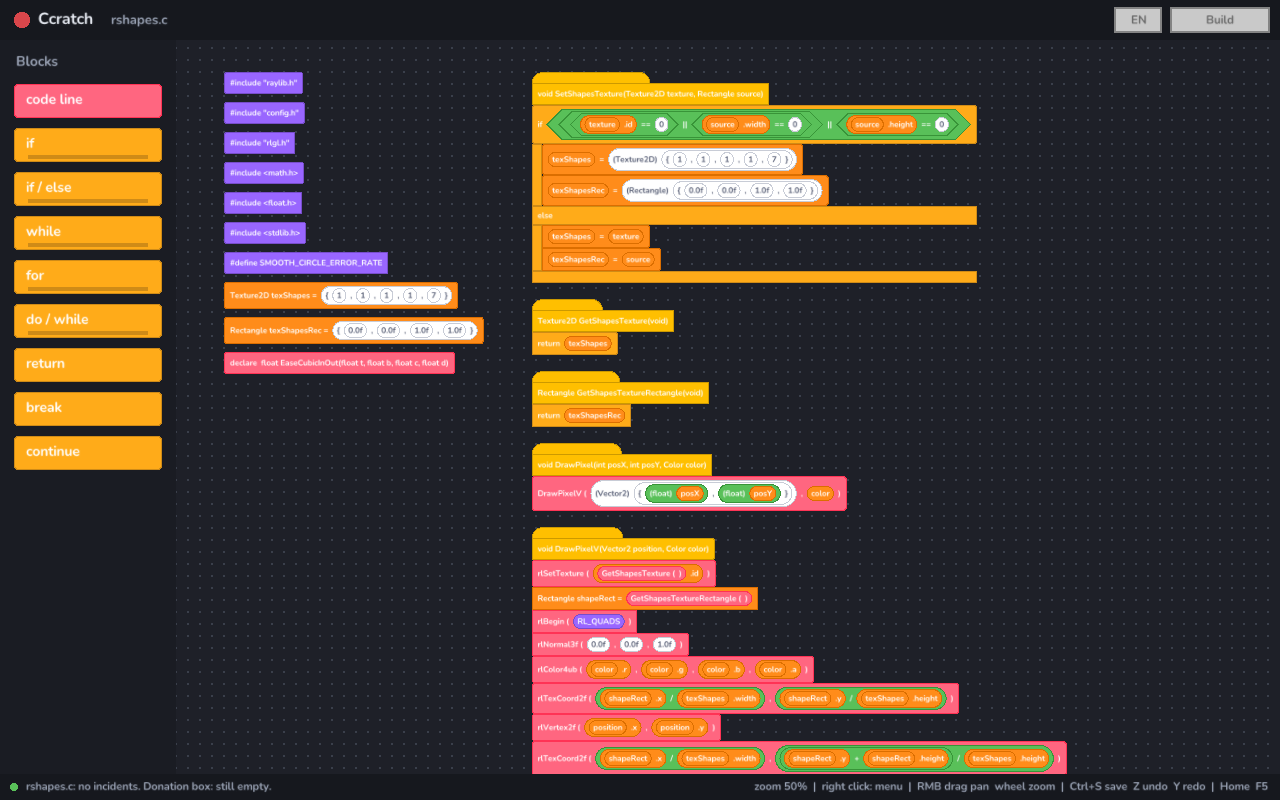
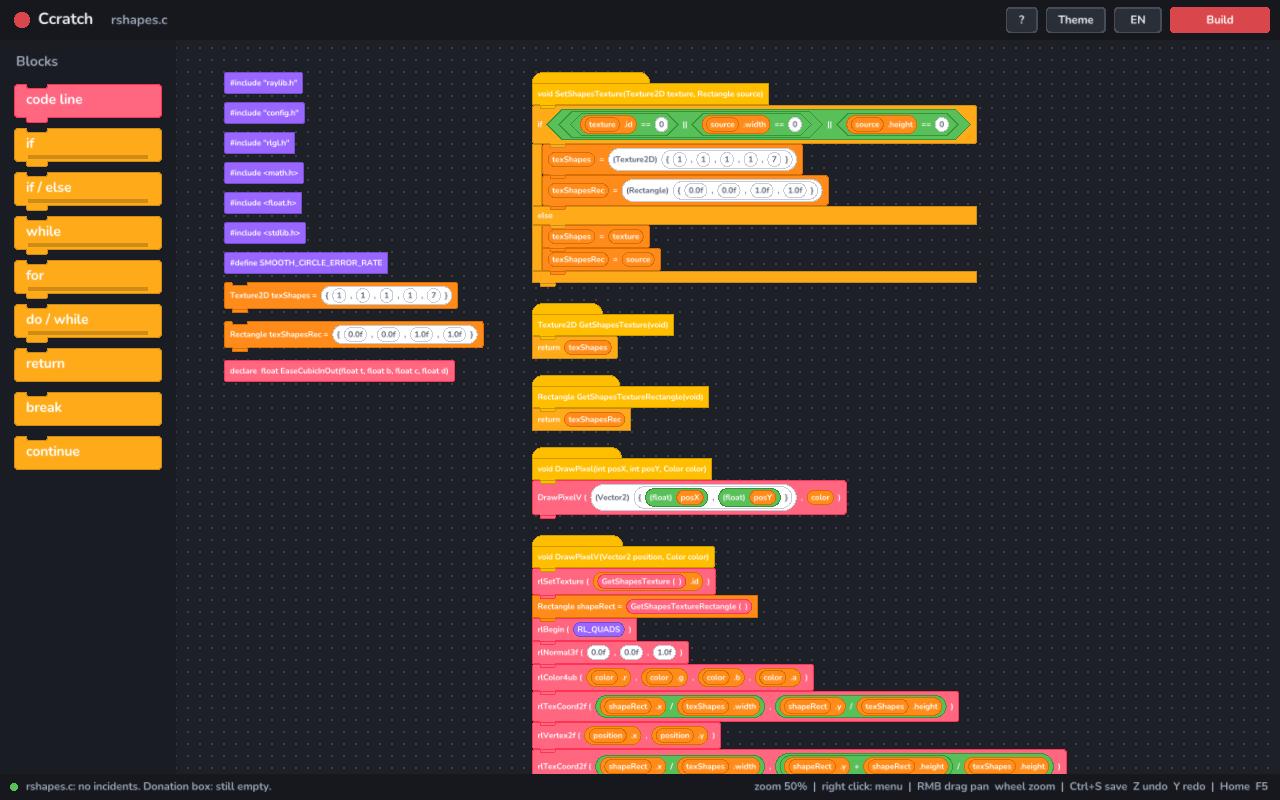
Puzzle shapes: notches on top, tabs underneath
Every statement gets a notch on top (a dent in the canvas colour) and a
tab under it in its own colours; tabs are drawn last, over the notch of
the block below, so stacked blocks lock together like Scratch's. C-blocks
put a tab into each mouth, a function hat into its first statement, a
label line into its statement. return, break, continue and goto have
flat bottoms, like Scratch's stop blocks: nothing after them runs. The
palette blocks have the same shapes.

Also: the display check keeps GLFW initialised instead of closing it
again, so raylib reuses the connection; with a slow Xvfb the display
could vanish in between and raylib 5.5 then segfaults (the occasional
GUI test failure).

Claude-Session: https://claude.ai/code/session_01AMzXJ5FkDabNV7M596GN8d

diff --git a/ccratch/src/ccr_blocks.c b/ccratch/src/ccr_blocks.c
@@ -20,6 +20,9 @@
 #define MOUTH_MIN_H 24.0f
 #define FOOT_H      24.0f   /* bottom bar of a C-block */
 #define HAT_BUMP    22.0f
+#define TAB_X       16.0f   /* the puzzle tab: how far in from the left */
+#define TAB_W       32.0f
+#define TAB_H        8.0f
 
 typedef enum category {
     CAT_CONTROL, CAT_OPERATOR, CAT_VARIABLE, CAT_CALL, CAT_EVENT,
@@ -40,12 +43,15 @@ typedef struct layout {
     float         *ew, *eh;   /* cached expression sizes, per node */
     bool           oom;
     int            dim;       /* > 0 inside a commented-out statement */
+    ccr_prim      *tabs;      /* puzzle tabs, drawn over everything at the end */
+    uint32_t       tab_count, tab_cap;
 } layout;
 
 static void push_snap(layout *L, ccr_snap_kind kind, ccr_node_id ref, float x, float y, float w,
                       float h);
 
 static void push_jump(layout *L, ccr_node_id id);
+static void add_tab(layout *L, float x, float bottom, ccr_color fill, ccr_color edge, ccr_node_id node);
 
 static const ccr_node *N(const layout *L, ccr_node_id id) { return &L->ast->nodes[id]; }
 static const char *S(const layout *L, ccr_str s)         { return ccr_ast_str(L->ast, s); }
@@ -502,12 +508,15 @@ static size2 emit_c_block(layout *L, const items *head, const mouth *mouths, int
     if (hh < BLOCK_MIN_H) hh = BLOCK_MIN_H;
     float width = hw < 120.0f ? 120.0f : hw;
 
+    const uint32_t head_prim = L->out->prim_count;
     push_shape(L, SHAPE_BLOCK, cat, (ccr_rect){ x, y, width, hh }, owner);
     emit_items(L, head, x + BLOCK_PAD_X, y, hh, cat, owner);
+    const ccr_color tab_fill = L->out->prims[head_prim].fill, tab_edge = L->out->prims[head_prim].edge;
 
     float cy = y + hh;
     for (int m = 0; m < mouth_count; ++m) {
         float inner_w = 0.0f;
+        add_tab(L, x + ARM_W, cy, tab_fill, tab_edge, owner);   /* into the mouth */
         float inner_h = emit_body(L, mouths[m].body, x + ARM_W, cy, &inner_w);
         if (inner_h < MOUTH_MIN_H)
             inner_h = MOUTH_MIN_H;
@@ -593,12 +602,65 @@ static size2 emit_decl_block(layout *L, ccr_node_id id, float x, float y, float 
 static float emit_stmt_body(layout *L, ccr_node_id id, float x, float y, float *max_w);
 
 /* A statement; a commented-out one, and everything in it, drawn grey. */
+/* ---------------------------------------------------- puzzle shapes */
+
+/*
+ * Scratch's stack blocks fit together like a puzzle: a tab under each
+ * block, a notch on top of the next one. Here a notch is a dent drawn in
+ * the canvas colour, and the tab of the block above is drawn over it at
+ * the end, so the two lock. Where nothing is above, the dent stays empty;
+ * blocks after which nothing runs (return, break, continue, goto) have no
+ * tab, like Scratch's "stop" blocks: their flat bottom says it.
+ */
+static void add_tab(layout *L, float x, float bottom, ccr_color fill, ccr_color edge, ccr_node_id node)
+{
+    if (!grow((void **)&L->tabs, &L->tab_cap, L->tab_count + 2, sizeof(ccr_prim))) {
+        L->oom = true;
+        return;
+    }
+    /* the tab, and its top edge painted over so it grows out of the block */
+    L->tabs[L->tab_count++] = (ccr_prim){ .kind = CCR_PRIM_BLOCK, .node = node,
+        .rect = { x + TAB_X, bottom - 1.0f, TAB_W, TAB_H + 1.0f },
+        .fill = fill, .edge = edge, .roundness = 0.6f };
+    L->tabs[L->tab_count++] = (ccr_prim){ .kind = CCR_PRIM_BLOCK, .node = node,
+        .rect = { x + TAB_X + 1.5f, bottom - 2.5f, TAB_W - 3.0f, 3.0f },
+        .fill = fill, .edge = fill, .roundness = 0.0f };
+}
+
+static void add_dent(layout *L, float x, float top, ccr_color edge, ccr_node_id node)
+{
+    const ccr_color bg = ccr_th(CCR_C_BG);
+    push_prim(L, (ccr_prim){ .kind = CCR_PRIM_BLOCK, .node = node,
+        .rect = { x + TAB_X, top - 1.0f, TAB_W, TAB_H + 1.0f },
+        .fill = bg, .edge = edge, .roundness = 0.6f });
+    push_prim(L, (ccr_prim){ .kind = CCR_PRIM_BLOCK, .node = node,
+        .rect = { x + TAB_X + 1.0f, top - 2.5f, TAB_W - 2.0f, 3.5f },
+        .fill = bg, .edge = bg, .roundness = 0.0f });
+}
+
+static bool ends_flow(ccr_node_kind k)
+{
+    return k == CCR_NODE_RETURN || k == CCR_NODE_BREAK || k == CCR_NODE_CONTINUE ||
+           k == CCR_NODE_GOTO;
+}
+
 static float emit_stmt(layout *L, ccr_node_id id, float x, float y, float *max_w)
 {
     const bool off = (N(L, id)->flags & CCR_FLAG_COMMENTED) != 0;
+    const uint32_t first = L->out->prim_count;
     L->dim += off;
     float h = emit_stmt_body(L, id, x, y, max_w);
     L->dim -= off;
+
+    /* a block of its own (not a group of others): notch on top, tab under */
+    if (!L->oom && first < L->out->prim_count) {
+        const ccr_prim top = L->out->prims[first];
+        if (top.node == id && top.kind == CCR_PRIM_BLOCK && top.rect.x == x && top.rect.y == y) {
+            add_dent(L, x, y, top.edge, id);
+            if (!ends_flow(N(L, id)->kind) && N(L, id)->kind != CCR_NODE_LABEL)
+                add_tab(L, x, y + h, top.fill, top.edge, id);
+        }
+    }
     return h;
 }
 
@@ -688,7 +750,10 @@ static float emit_stmt_body(layout *L, ccr_node_id id, float x, float y, float *
         /* `done:` then the labelled statement right under it */
         push_jump(L, id);
         it_fmt(&head, "%s:", S(L, n->name));
+        const uint32_t line = L->out->prim_count;
         sz = emit_line_block(L, &head, CAT_CONTROL, x, y, id);
+        if (n->first_child != CCR_NONE && line < L->out->prim_count)
+            add_tab(L, x, y + sz.h, L->out->prims[line].fill, L->out->prims[line].edge, id);
         if (sz.w > *max_w) *max_w = sz.w;
         float h2 = 0.0f;
         if (n->first_child != CCR_NONE)
@@ -821,7 +886,9 @@ static size2 emit_hat(layout *L, ccr_node_id fn, float x, float y, float *max_w)
 
     /* the round "hat" bump, then the body of the block over it */
     push_shape(L, SHAPE_PILL, CAT_EVENT, (ccr_rect){ x, y, w * 0.5f, HAT_BUMP * 2.0f }, fn);
+    const uint32_t hat_prim = L->out->prim_count;
     push_shape(L, SHAPE_BLOCK, CAT_EVENT, (ccr_rect){ x, y + HAT_BUMP, w, h }, fn);
+    add_tab(L, x, y + HAT_BUMP + h, L->out->prims[hat_prim].fill, L->out->prims[hat_prim].edge, fn);
     emit_items(L, &head, x + BLOCK_PAD_X, y + HAT_BUMP, h, CAT_EVENT, fn);
     if (w > *max_w) *max_w = w;
 
@@ -986,6 +1053,9 @@ bool ccr_blocks_build_script(ccr_blocks *out, const ccr_ast *ast, ccr_node_id ro
     else
         emit_decl_block(&L, root, 0.0f, 0.0f, &w);
 
+    for (uint32_t i = 0; i < L.tab_count && !L.oom; ++i)
+        push_prim(&L, L.tabs[i]);
+    free(L.tabs);
     if (L.oom) {
         ccr_blocks_free(out);
         return false;

diff --git a/ccratch/src/ccr_app.c b/ccratch/src/ccr_app.c
@@ -830,6 +830,16 @@ static void draw_palette(int height, bool dragging_over)
         ccr_color edge = ccr_th_cat(cat, CCR_EDGE);
         ccr_gui_rect_rounded(r, 0.25f, edge);
         ccr_gui_rect_rounded((ccr_rect){ r.x + 1, r.y + 1, r.w - 2, r.h - 2 }, 0.25f, fill);
+        /* the puzzle shape, as on the canvas: a notch on top, a tab under
+         * (not under return, break, continue: nothing runs after them) */
+        const ccr_rect dent = { r.x + 12.0f, r.y - 1.0f, 22.0f, 6.0f };
+        ccr_gui_rect_rounded(dent, 0.6f, edge);
+        ccr_gui_rect_rounded((ccr_rect){ dent.x + 1, dent.y - 1, dent.w - 2, dent.h }, 0.6f, COL_PALETTE);
+        if (i < CCR_TEMPLATE_RETURN) {
+            const ccr_rect tab = { r.x + 12.0f, r.y + r.h - 1.0f, 22.0f, 6.0f };
+            ccr_gui_rect_rounded(tab, 0.6f, edge);
+            ccr_gui_rect_rounded((ccr_rect){ tab.x + 1, tab.y - 1, tab.w - 2, tab.h }, 0.6f, fill);
+        }
         if (mouth)   /* a hint of the C shape: there is room inside */
             ccr_gui_rect((ccr_rect){ r.x + 14.0f, r.y + r.h - 7.0f, r.w - 28.0f, 4.0f }, edge);
         ccr_gui_text(ccr_template_label((ccr_template)i), r.x + 12.0f, r.y + 6.0f, 19.0f,

diff --git a/gui/src/ccr_gui.c b/gui/src/ccr_gui.c
@@ -44,10 +44,11 @@ bool ccr_gui_init(int width, int height, const char *title)
     SetTraceLogLevel(LOG_WARNING);
 
     /* raylib 5.5 carries on after GLFW fails to reach a display and then
-     * calls OpenGL that was never loaded: a segfault. Ask GLFW first. */
+     * calls OpenGL that was never loaded: a segfault. Ask GLFW first, and
+     * stay connected: raylib's own glfwInit then just reuses it, so the
+     * display cannot go away in between (seen with a slow Xvfb). */
     if (!glfwInit())
         return false;
-    glfwTerminate();
 
     SetConfigFlags(FLAG_WINDOW_RESIZABLE | FLAG_MSAA_4X_HINT | FLAG_VSYNC_HINT);
     InitWindow(width, height, title);

diff --git a/README.md b/README.md
@@ -43,6 +43,11 @@ How the colors map to C:
 | White | literals |
 | Grey | "here be dragons": no block for this yet, raw code shown |
 
+Blocks fit together like a puzzle, as in Scratch: a notch on top of each
+statement, a tab under it, so you can see where one ends and the next one
+starts. `return`, `break`, `continue` and `goto` have flat bottoms:
+nothing after them runs, and the shape says so.
+
 Dragging works like Scratch:
 
 - grab a statement and it comes with everything under it in its stack;
